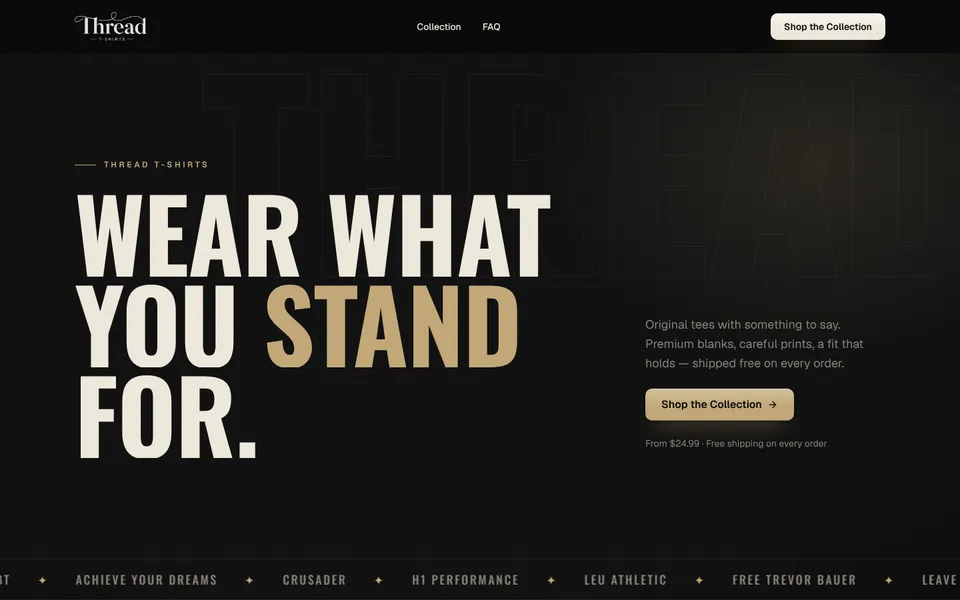
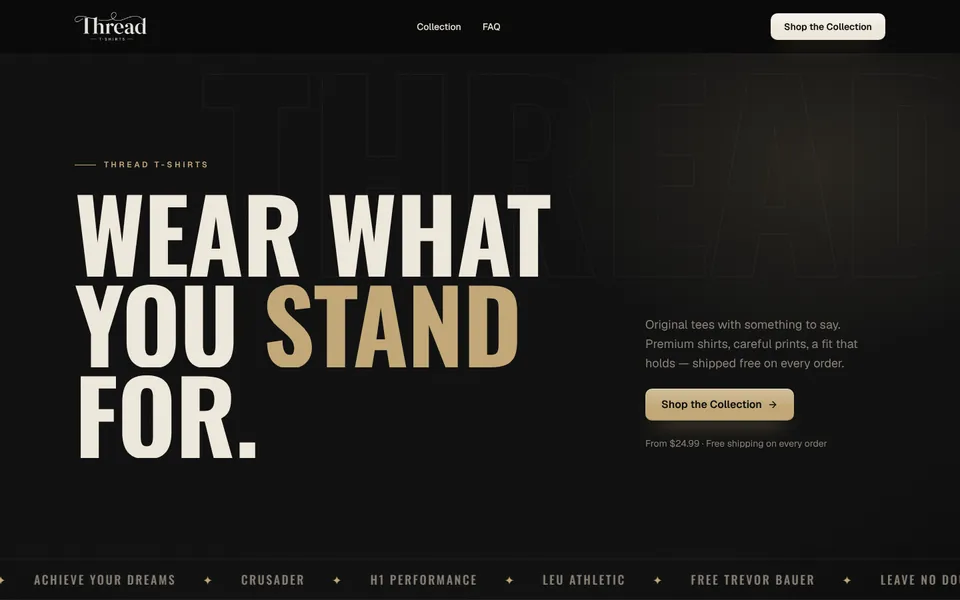
Re-pick Recent Builds from the owner's Vercel account
The strongest live work, strongest first, with our own site last. One
list drives the ring (.com, .net), the grid (.org), the Website builds
deck and the Websites page's related builds.

- Added Photos by Noelle (client work, the owner confirmed it can show).
- Removed Graystone Contracting and Fieldhouse Athletic Club: both links
  now return 404.
- Removed Sage & Stone: its page shows "MHIC #[license number]".
- Renamed Rocha Family Auto Sales to Marque & Mile, as the template now
  shows, with its new category.
- Concept previews for businesses that aren't clients yet (Ashton, Brix,
  Digital Skinz, the real-estate agent, Brushy Bear) stay off, as do
  sites the owner didn't confirm as clients.
- Every screenshot retaken today at 1440x900, saved 960x600 webp; the
  four unused ones are deleted. docs/RECENT-BUILDS.md updated.

Claude-Session: https://claude.ai/code/session_01AELEZgd8HZ1tJPGYhYU1CJ

diff --git a/data/site.ts b/data/site.ts
@@ -104,45 +104,25 @@ export const site = {
     { value: "$150,000+", label: "Generated for our clients", definition: "" },
   ] as Stat[],
   /**
-   * "Recent Builds": finished work the owner has permission to show, in the
-   * owner's order (sent 2026-10-05; Copperleaf and Rocha added 2026-10-07;
-   * Lumen Chapel removed 2026-10-23), with our own site last. Names are as
-   * each live site shows them. Each is labeled client work, template or our
-   * venture (`kind`, the owner's call, 2026-10-23). docs/RECENT-BUILDS.md has
-   * the format for adding one.
+   * "Recent Builds" (the ring on .com and .net, the grid on .org, the
+   * Website builds deck and the Websites page's related builds): the
+   * strongest live work, strongest first, with our own site last. Picked
+   * 2026-10-25 from the owner's Vercel account: Photos by Noelle added (a
+   * client who OK'd showing it); Graystone and Fieldhouse removed (their
+   * links went dead); Sage & Stone removed (a placeholder licence number on
+   * the page); Rocha renamed Marque & Mile, as the template now shows.
+   * Concept previews for businesses that aren't clients yet stay off. Names
+   * are as each live site shows them; `kind` is the owner's call.
+   * docs/RECENT-BUILDS.md has the format for adding one.
    */
   projects: [
     {
-      name: "Pelican Power Wash",
+      name: "Photos by Noelle",
       kind: "client",
-      category: "Exterior cleaning · Maryland",
-      built: ["Website", "Backend automation"],
-      href: "https://pelicanpowerwash.vercel.app",
-      image: "/projects/pelican-power-wash.webp",
-    },
-    {
-      name: "Graystone Contracting",
-      kind: "template",
-      category: "Construction · Southern Maryland",
-      built: ["Website", "Backend automation", "Ready-to-go template"],
-      href: "https://template-greystone.vercel.app",
-      image: "/projects/graystone-contracting.webp",
-    },
-    {
-      name: "Sage & Stone",
-      kind: "template",
-      category: "Landscaping · Southern Maryland",
-      built: ["Website", "Backend automation", "Ready-to-go template"],
-      href: "https://landscapingtemplate-eight.vercel.app",
-      image: "/projects/sage-and-stone.webp",
-    },
-    {
-      name: "Thread T-Shirts",
-      kind: "client",
-      category: "Apparel · Ships worldwide",
-      built: ["Website", "Backend automation"],
-      href: "https://tread-two.vercel.app",
-      image: "/projects/thread.webp",
+      category: "Sports & lifestyle photography · Honolulu & Fredericksburg",
+      built: ["Website"],
+      href: "https://photosby-noelle.vercel.app",
+      image: "/projects/photos-by-noelle.webp",
     },
     {
       name: "H1 Performance",
@@ -151,22 +131,6 @@ export const site = {
       built: ["Website", "Backend automation"],
       href: "https://h1-three-sandy.vercel.app",
       image: "/projects/h1-performance.webp",
-    },
-    {
-      name: "Terps Fostering Futures",
-      kind: "client",
-      category: "Student club · University of Maryland",
-      built: ["Website", "Backend automation"],
-      href: "https://www.terpsfosteringfutures.com",
-      image: "/projects/terps-fostering-futures.webp",
-    },
-    {
-      name: "Fieldhouse Athletic Club",
-      kind: "template",
-      category: "Fitness coaching",
-      built: ["Website", "Backend automation", "Ready-to-go template"],
-      href: "https://fitness-orpin-six.vercel.app/?style=fieldhouse",
-      image: "/projects/fieldhouse-athletic-club.webp",
     },
     {
       name: "G1 Baseball & Softball Training",
@@ -178,6 +142,14 @@ export const site = {
       image: "/projects/g1-baseball.webp",
     },
     {
+      name: "Thread T-Shirts",
+      kind: "client",
+      category: "Apparel · Ships worldwide",
+      built: ["Website", "Backend automation"],
+      href: "https://tread-two.vercel.app",
+      image: "/projects/thread.webp",
+    },
+    {
       name: "Copperleaf Grounds Co.",
       kind: "template",
       category: "Lawn care · Brandywine Valley",
@@ -186,12 +158,28 @@ export const site = {
       image: "/projects/copperleaf-grounds.webp",
     },
     {
-      name: "Rocha Family Auto Sales",
+      name: "Pelican Power Wash",
+      kind: "client",
+      category: "Exterior cleaning · Maryland",
+      built: ["Website", "Backend automation"],
+      href: "https://pelicanpowerwash.vercel.app",
+      image: "/projects/pelican-power-wash.webp",
+    },
+    {
+      name: "Marque & Mile",
       kind: "template",
-      category: "Pre-owned vehicles · Sequim, Washington",
+      category: "Pre-owned vehicles · Denver, Colorado",
       built: ["Website", "Backend automation", "Ready-to-go template"],
       href: "https://rocha-nu.vercel.app",
-      image: "/projects/rocha-family-auto-sales.webp",
+      image: "/projects/marque-and-mile.webp",
+    },
+    {
+      name: "Terps Fostering Futures",
+      kind: "client",
+      category: "Student club · University of Maryland",
+      built: ["Website", "Backend automation"],
+      href: "https://www.terpsfosteringfutures.com",
+      image: "/projects/terps-fostering-futures.webp",
     },
     {
       name: "Lee Enterprises Unlimited",

diff --git a/docs/RECENT-BUILDS.md b/docs/RECENT-BUILDS.md
@@ -82,10 +82,11 @@ amounts blurred or fake. Screenshots as full-size PNGs.
    hero that animates can be caught mid-change. Our own homepage swaps its
    headline for an animation a few seconds in, so shoot it with
    `reducedMotion: "reduce"`; H1's stat counter is clean about 1.5 seconds
-   after load. Rocha's hero is a looping driving video: about 6 seconds after
-   load it shows the aerial shot of the green winding road, the frame we use.
+   after load. Marque & Mile (the template that was Rocha) opens on a car in
+   a dark showroom; scroll about 600px and wait two seconds so its lights
+   come on, and shoot that.
 3. With fewer than three builds and `showPlaceholders` on, "coming soon"
    boxes fill the row out to three.
 4. When a client's site changes, retake its shot the same way. All of them
-   were last refreshed on 2026-10-07 (Rocha's again later that day, after
-   its hero changed to a video).
+   were last refreshed on 2026-10-25, when the list was re-picked from the
+   owner's Vercel account.
